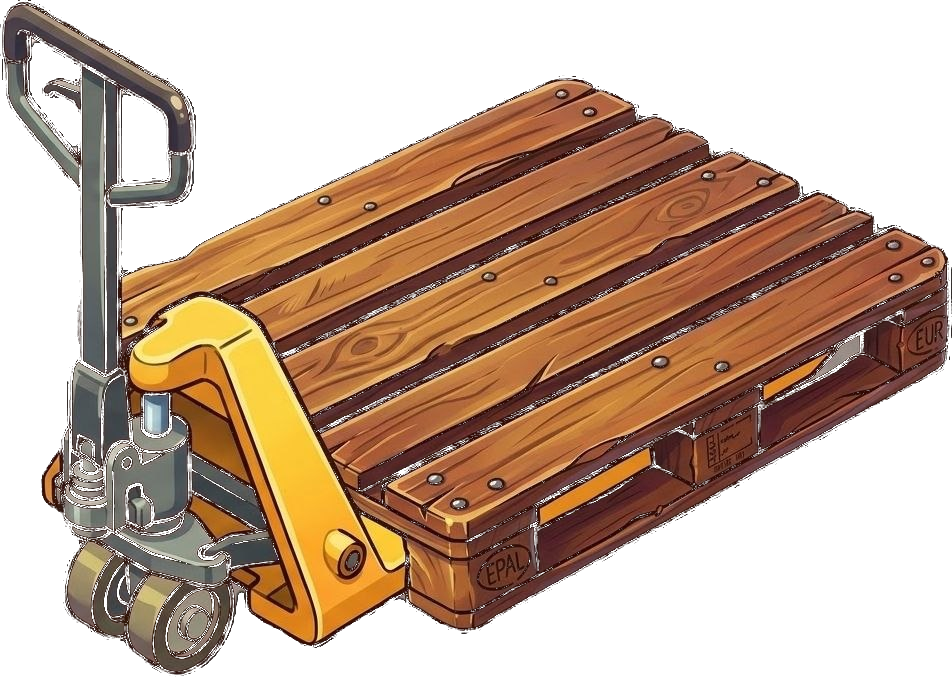
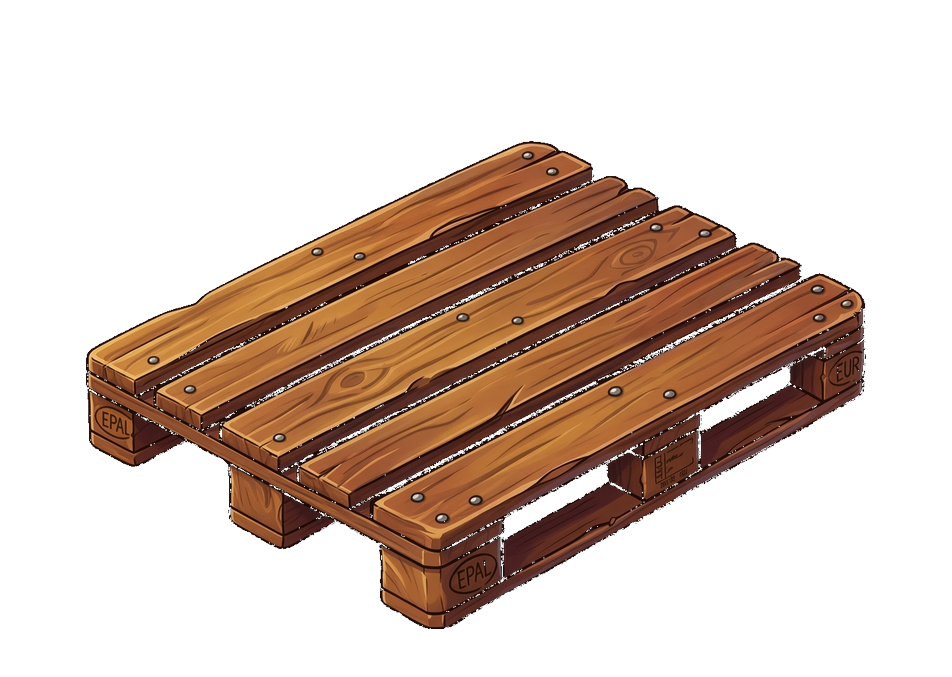
Replace empty pallet sprite so the jack is gone from the yard.

diff --git a/02-sklad/game.js b/02-sklad/game.js
@@ -984,9 +984,10 @@ function palWood(name) {
   );
 }
 
+const EMPTY_PAL = "art/pal-empty.png";
 const ART_URLS = [
   "art/yard.jpg",
-  "art/empty.png",
+  EMPTY_PAL,
   "art/pack.png",
   "art/pal-water.png",
   "art/pal-cans.png",
@@ -1015,7 +1016,7 @@ function preloadArt() {
 }
 
 function palPic(sku) {
-  if (!sku) return "art/empty.png";
+  if (!sku) return EMPTY_PAL;
   if (sku.id === "water") return "art/pal-water.png";
   if (sku.id === "cola" || sku.id === "grape") return "art/pal-cans.png";
   return "art/pal-soda.png";
@@ -1023,7 +1024,7 @@ function palPic(sku) {
 
 function palMarkup(sku, packs) {
   const n = Math.max(0, Math.min(PALLET_PACKS, Number(packs) || 0));
-  const base = "<img class=\"iso-img iso-base\" src=\"art/empty.png\" alt=\"\" decoding=\"async\">";
+  const base = "<img class=\"iso-img iso-base\" src=\"" + EMPTY_PAL + "\" alt=\"\" decoding=\"async\">";
   if (!sku || !n) {
     return "<div class=\"pal-live empty-wood iso-pal\">" + base + "</div>";
   }
@@ -1046,7 +1047,7 @@ function palMarkup(sku, packs) {
 
 function mixPalMarkup(skuIds) {
   const list = (skuIds || []).slice(0, PALLET_PACKS);
-  const base = "<img class=\"iso-img iso-base\" src=\"art/empty.png\" alt=\"\" decoding=\"async\">";
+  const base = "<img class=\"iso-img iso-base\" src=\"" + EMPTY_PAL + "\" alt=\"\" decoding=\"async\">";
   if (!list.length) {
     return "<div class=\"pal-live ship-pal iso-pal\">" + base + "</div>";
   }

diff --git a/02-sklad/index.html b/02-sklad/index.html
@@ -8,7 +8,7 @@
     <meta name="apple-mobile-web-app-capable" content="yes" />
     <link rel="manifest" href="manifest.json" />
     <link rel="icon" href="../icon.svg" type="image/svg+xml" />
-    <link rel="stylesheet" href="style.css?v=122" />
+    <link rel="stylesheet" href="style.css?v=123" />
   </head>
   <body>
     <div class="scene" aria-hidden="true">
@@ -213,6 +213,6 @@
       </div>
     </div>
 
-    <script src="game.js?v=122"></script>
+    <script src="game.js?v=123"></script>
   </body>
 </html>
